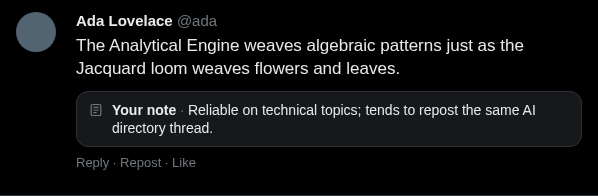
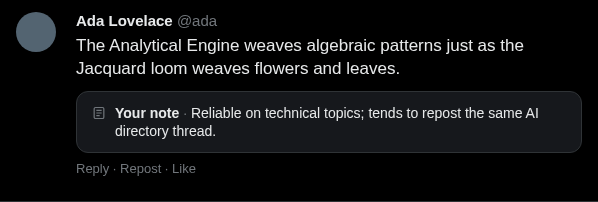
[verified] style: add breathing room to private notes

diff --git a/src/content.js b/src/content.js
@@ -17,7 +17,7 @@
   `;
   const COMPOSER_STYLES = `${BASE_STYLES}
     :host { display: block; margin: 14px 0; font-family: TwitterChirp, -apple-system, BlinkMacSystemFont, "Segoe UI", Roboto, Helvetica, Arial, sans-serif; }
-    section { padding: 12px; color: #0f1419; background: #f7f9f9; border: 1px solid #cfd9de; border-radius: 12px; }
+    section { padding: 16px; color: #0f1419; background: #f7f9f9; border: 1px solid #cfd9de; border-radius: 12px; }
     .heading { display: flex; gap: 8px; align-items: flex-start; }
     svg { flex: 0 0 18px; width: 18px; height: 18px; color: #536471; }
     .heading div { display: flex; flex-direction: column; gap: 1px; }
@@ -39,7 +39,7 @@
   `;
   const FEED_STYLES = `${BASE_STYLES}
     :host { display: block; width: 100%; min-width: 0; margin: 8px 0 4px; font-family: TwitterChirp, -apple-system, BlinkMacSystemFont, "Segoe UI", Roboto, Helvetica, Arial, sans-serif; }
-    aside { display: flex; gap: 8px; align-items: flex-start; width: 100%; min-width: 0; padding: 9px 11px; color: #0f1419; background: #f7f9f9; border: 1px solid #cfd9de; border-radius: 12px; }
+    aside { display: flex; gap: 8px; align-items: flex-start; width: 100%; min-width: 0; padding: 12px 14px; color: #0f1419; background: #f7f9f9; border: 1px solid #cfd9de; border-radius: 12px; }
     svg { flex: 0 0 16px; width: 16px; height: 16px; margin-top: 1px; color: #536471; }
     p { min-width: 0; margin: 0; overflow-wrap: anywhere; color: inherit; font-size: 14px; font-weight: 400; line-height: 18px; }
     strong { font-weight: 700; }

diff --git a/tests/content.test.js b/tests/content.test.js
@@ -51,6 +51,7 @@ test("profile card keeps note text closed and opens an extension-origin editor",
   assert.match(root.textContent, /Compiler expert/i);
   assert.equal(root.querySelector("strong").textContent, "Your private note");
   assert.match(root.querySelector("style").textContent, /TwitterChirp/);
+  assert.match(root.querySelector("style").textContent, /section\s*\{[^}]*padding:\s*16px;/s);
 
   root.querySelector("button").click();
   await new Promise((resolve) => setTimeout(resolve, 0));
@@ -114,6 +115,7 @@ test("feed note uses compact X-native typography without the terminal-style labe
   assert.match(root.querySelector("style").textContent, /TwitterChirp/);
   assert.equal(annotation.querySelector("strong").textContent, "Your note");
   assert.equal(annotation.querySelector("svg").getAttribute("aria-hidden"), "true");
+  assert.match(root.querySelector("style").textContent, /aside\s*\{[^}]*padding:\s*12px 14px;/s);
   assert.doesNotMatch(annotation.textContent, /\/\/|YOUR NOTE|SIDENOTE/);
 });
 
